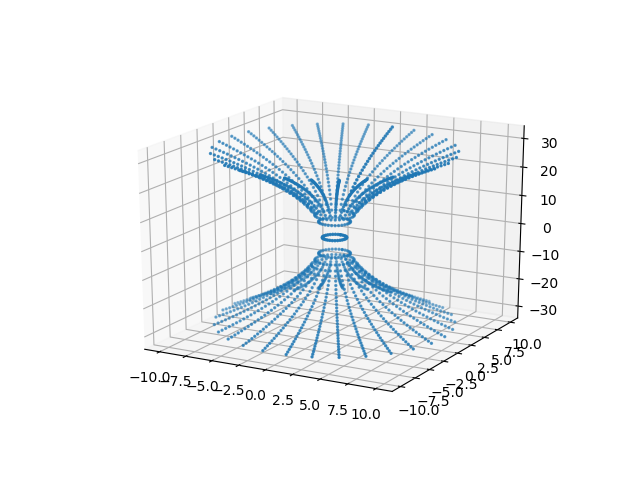
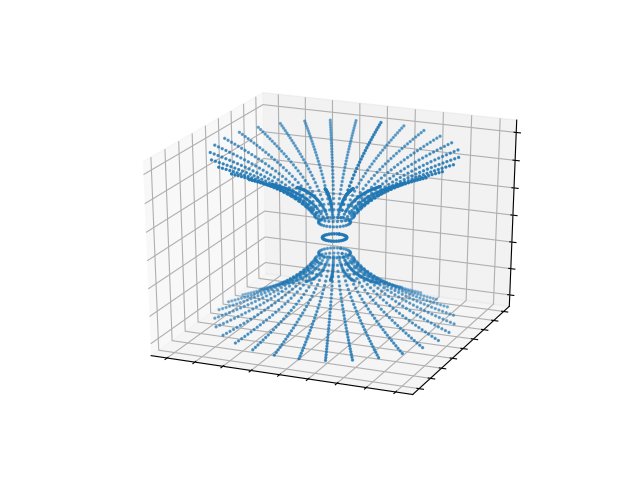
Edit visualization in README

diff --git a/WormholeVisualization.py b/WormholeVisualization.py
@@ -56,6 +56,9 @@ plt.show()
 
 fig = plt.figure()
 ax = fig.add_subplot(111, projection="3d")
+ax.set_xticklabels([])
+ax.set_yticklabels([])
+ax.set_zticklabels([])
 
 ax.scatter(x * 2, y * 2, pos_height_points + neg_height_points, s=2)
 plt.show()
